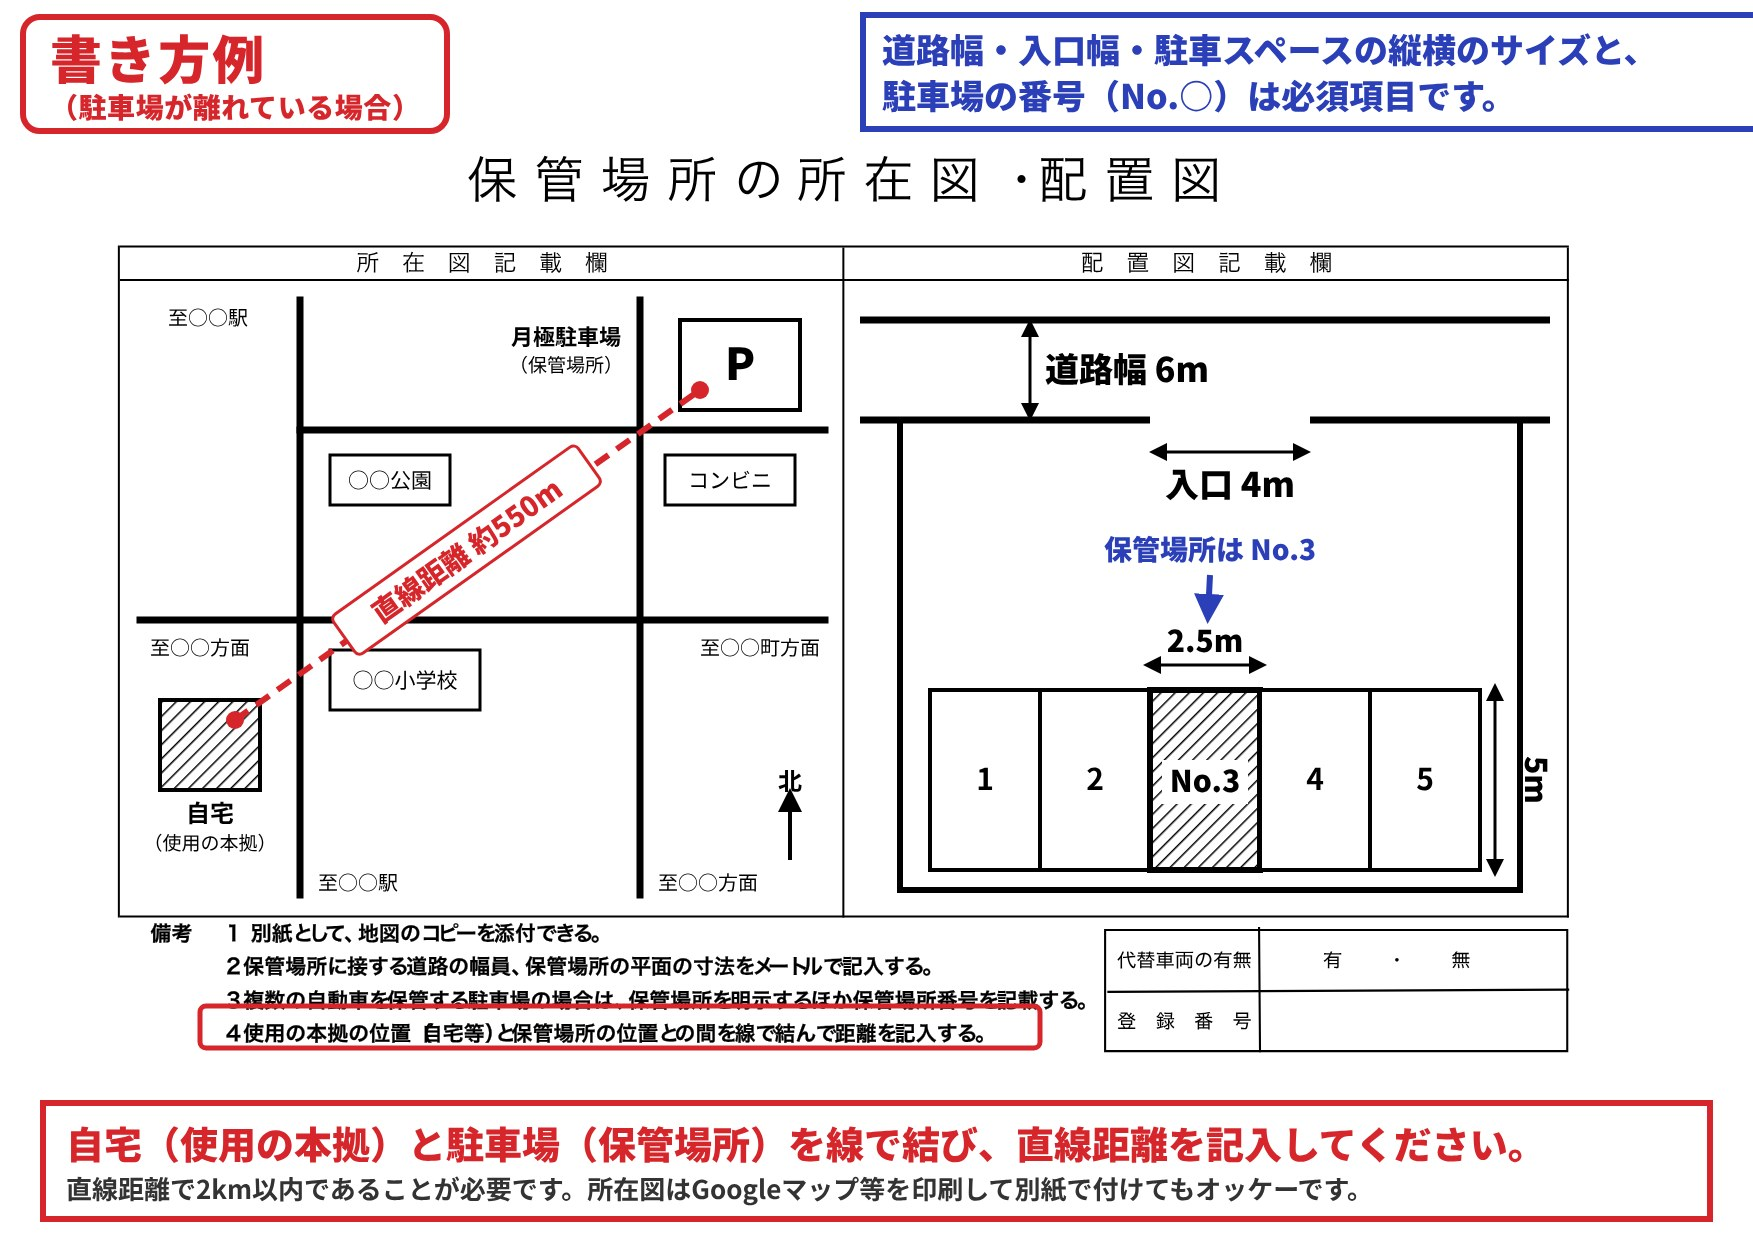
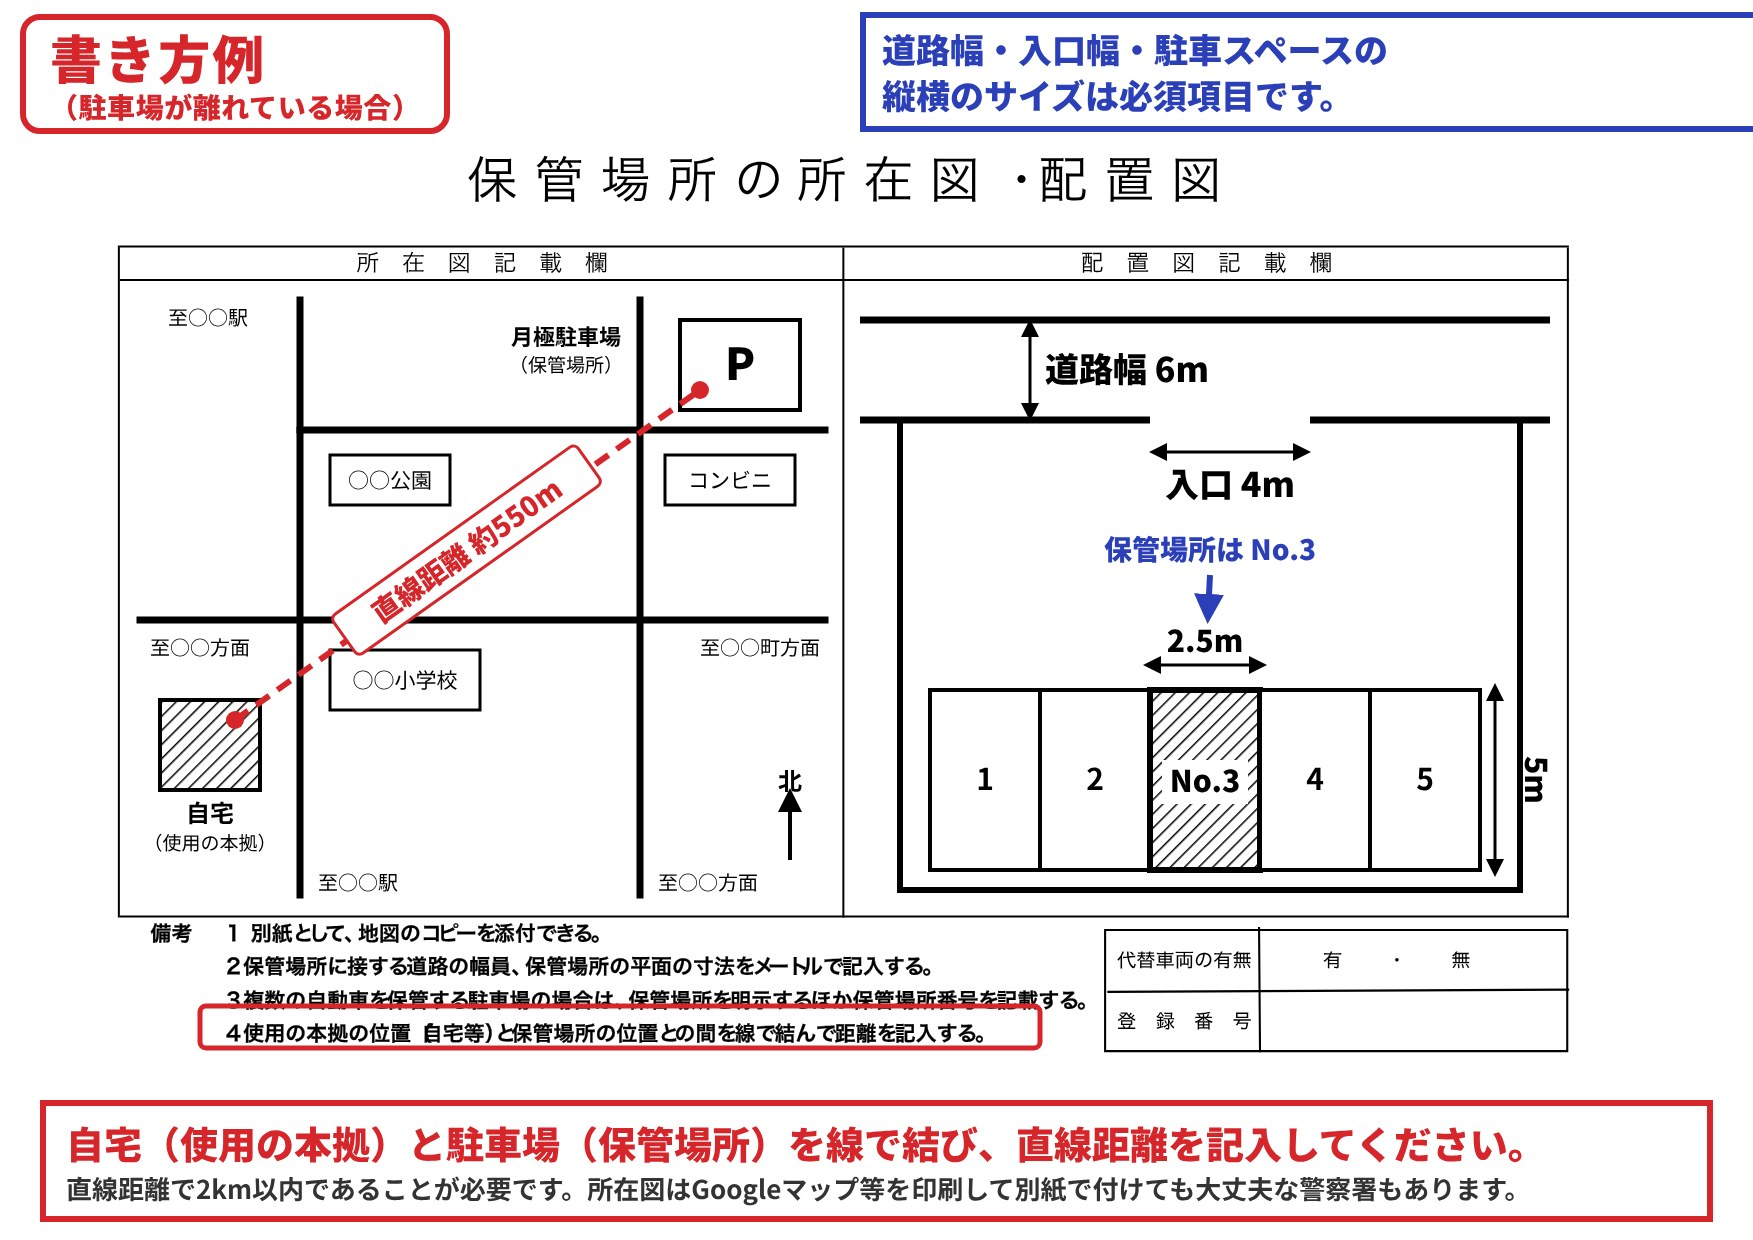
配置図の見本：駐車場番号の必須表記を削除、Googleマップは「大丈夫な警察署もある」に変更
Claude-Session: https://claude.ai/code/session_019DVAaf5zZXeEhu1cR78BtE

Changed region(s): [[0.4929, 0.0306, 0.9241, 0.0919], [0.6777, 0.95, 0.8625, 0.9806]]

diff --git a/index.html b/index.html
@@ -280,7 +280,7 @@
 </head>
 <body>
 
-<header><h1 id="title">書類印刷</h1><span class="ver">最終更新 11/9 15:45</span></header>
+<header><h1 id="title">書類印刷</h1><span class="ver">最終更新 11/9 16:00</span></header>
 <main>
   <section class="att" id="att" hidden>
     <h2>添付書類</h2>
